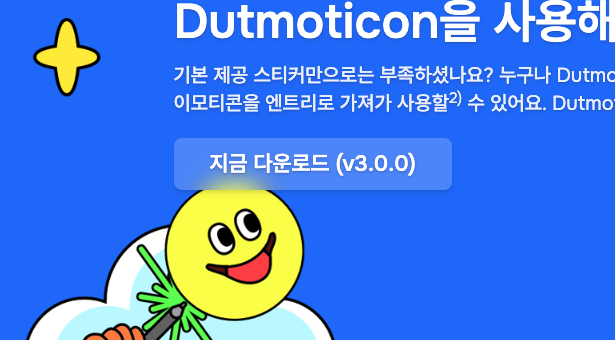
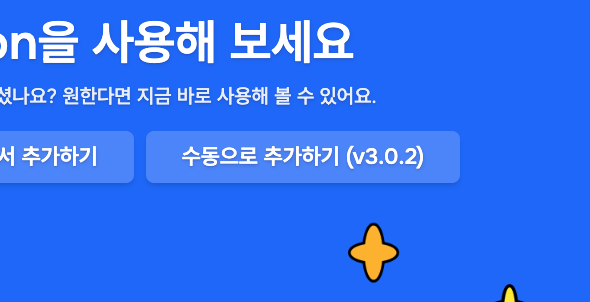
수동 설치 가이드와 이모티콘 추가 가이드 분리

diff --git a/src/pages/install.tsx b/src/pages/install.tsx
@@ -40,31 +40,27 @@ const Index: NextPage<{ version: string }> = ({ version }) => {
                   target="_blank"
                   className="text-[22px] font-semibold px-9 py-[18px] leading-4 rounded-lg bg-white/20 backdrop-blur-md text-white text-shadow shadow-md"
                 >
-                  {`Chrome 웹 스토어에서 다운로드`}
+                  {`Chrome 웹 스토어에서 추가하기`}
                 </a>
                 <a
                   href={`https://github.com/thoratica/dutmoticon/archive/refs/tags/${version}.zip`}
                   target="_blank"
                   className="text-[22px] font-semibold px-9 py-[18px] leading-4 rounded-lg bg-white/20 backdrop-blur-md text-white text-shadow shadow-md"
                 >
-                  {`ZIP으로 다운로드 (v${version})`}
+                  {`수동으로 추가하기 (v${version})`}
                 </a>
               </div>
             </div>
           </div>
         </section>
         <section className="max-w-7xl w-full mx-auto px-10 0.5md:px-6 pb-2 mb-8 flex flex-col">
-          <h2 className="text-2xl font-semibold mt-8">설치 가이드</h2>
+          <h2 className="text-[28px] font-semibold mt-8">수동 설치 가이드</h2>
           <div className="mt-2 grid grid-cols-2 md:grid-cols-1 w-full gap-4">
             {[
-              '1. "지금 다운로드" 버튼을 눌러 ZIP 파일을 다운로드하세요.',
+              '1. "수동으로 추가하기" 버튼을 눌러 ZIP 파일을 다운로드하세요.',
               "2. 다운로드한 ZIP 파일의 압축을 해제하세요.",
               "3. 주소창에 chrome://extensions를 입력해 확장 프로그램 페이지로 이동한 뒤 개발자 모드를 활성화하세요.",
               "4. 압축을 해제한 폴더를 확장 프로그램 페이지에 드래그&드롭으로 설치하세요.",
-              "5. 설치가 완료되면 열리는 Dutmoticon 스토어에서 원하는 이모티콘을 클릭하세요.",
-              '6. "Dutmoticon에 추가" 버튼을 클릭해 이모티콘을 추가하세요.',
-              "7. 엔트리 이야기나 작품 댓글에서 추가한 이모티콘을 사용하세요.",
-              "8. 주소창 옆에 있는 확장 프로그램 아이콘을 클릭하면 나오는 팝업에서 이모티콘을 제거할 수 있어요.",
             ].map((step, i) => {
               return (
                 <div
@@ -73,6 +69,32 @@ const Index: NextPage<{ version: string }> = ({ version }) => {
                 >
                   <img
                     src={`/guide/step-${i + 1}.png`}
+                    className="border-b border-b-neutral-100 aspect-video object-cover"
+                  />
+                  <div className="flex flex-col justify-center w-full min-w-0 px-4 py-3">
+                    <span className="text-lg font-medium leading-5">{step}</span>
+                  </div>
+                </div>
+              );
+            })}
+          </div>
+        </section>
+        <section className="max-w-7xl w-full mx-auto px-10 0.5md:px-6 pb-2 mb-8 flex flex-col">
+          <h2 className="text-[28px] font-semibold mt-8">이모티콘 추가 가이드</h2>
+          <div className="mt-2 grid grid-cols-2 md:grid-cols-1 w-full gap-4">
+            {[
+              "1. 설치가 완료되면 열리는 Dutmoticon 스토어에서 원하는 이모티콘을 클릭하세요.",
+              '2. "Dutmoticon에 추가" 버튼을 클릭해 이모티콘을 추가하세요.',
+              "3. 엔트리 이야기나 작품 댓글에서 추가한 이모티콘을 사용하세요.",
+              "4. 주소창 옆에 있는 확장 프로그램 아이콘을 클릭하면 나오는 팝업에서 이모티콘을 제거할 수 있어요.",
+            ].map((step, i) => {
+              return (
+                <div
+                  className="flex flex-col rounded-xl overflow-hidden border border-neutral-100 shadow-md hover:transform hover:-translate-y-1.5 transition-transform duration-300"
+                  key={i}
+                >
+                  <img
+                    src={`/guide/step-${i + 5}.png`}
                     className="border-b border-b-neutral-100 aspect-video object-cover"
                   />
                   <div className="flex flex-col justify-center w-full min-w-0 px-4 py-3">
